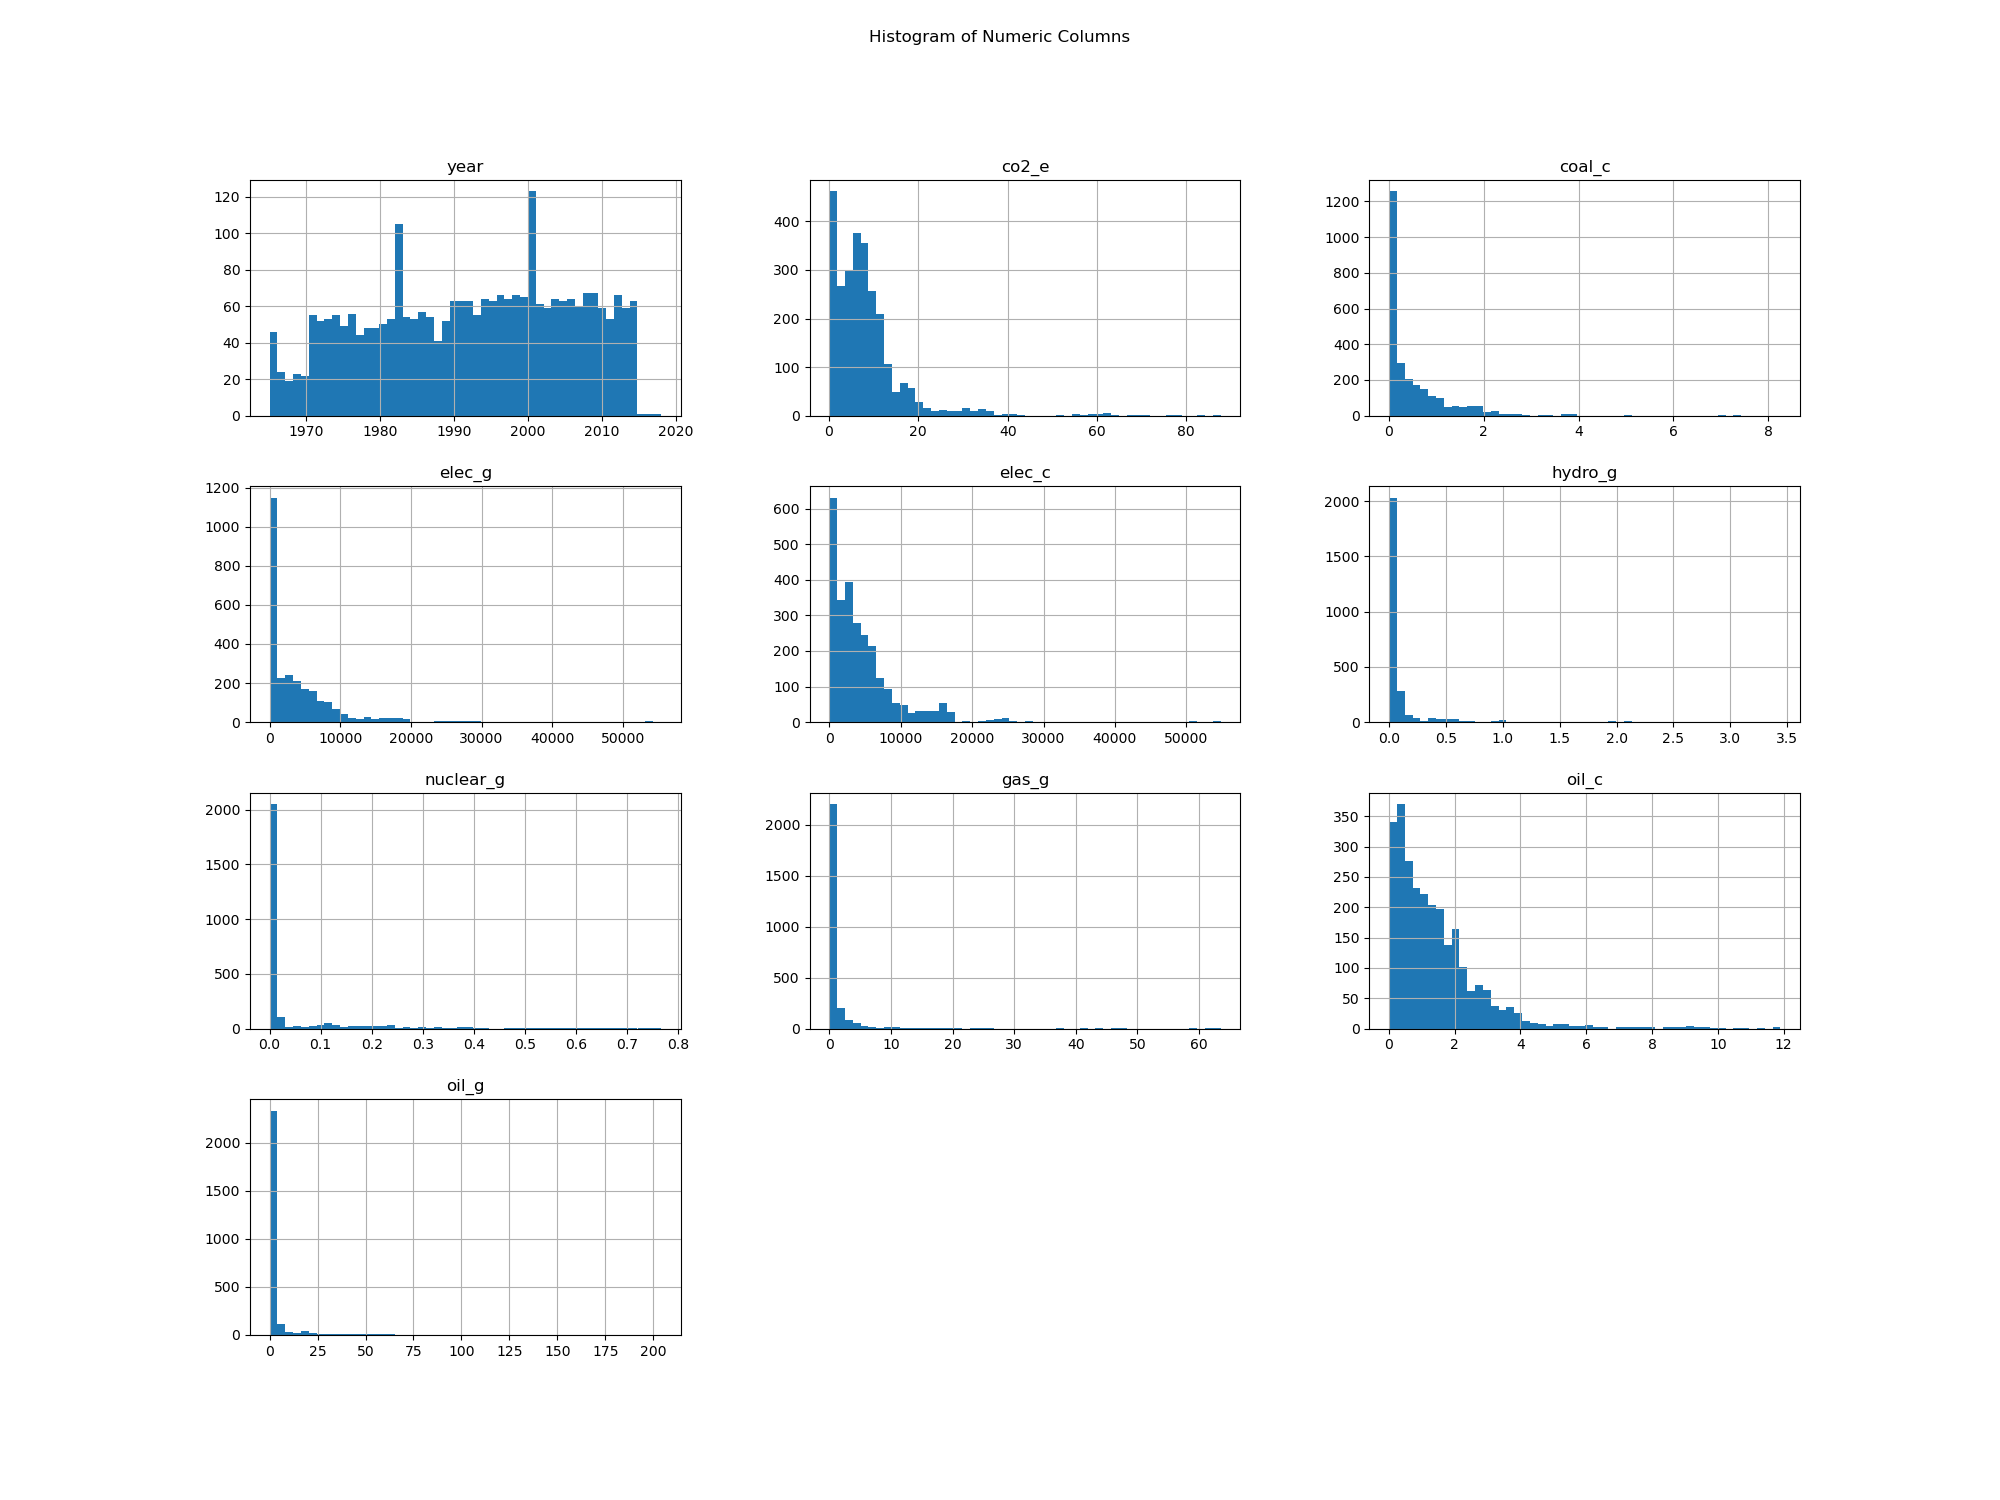
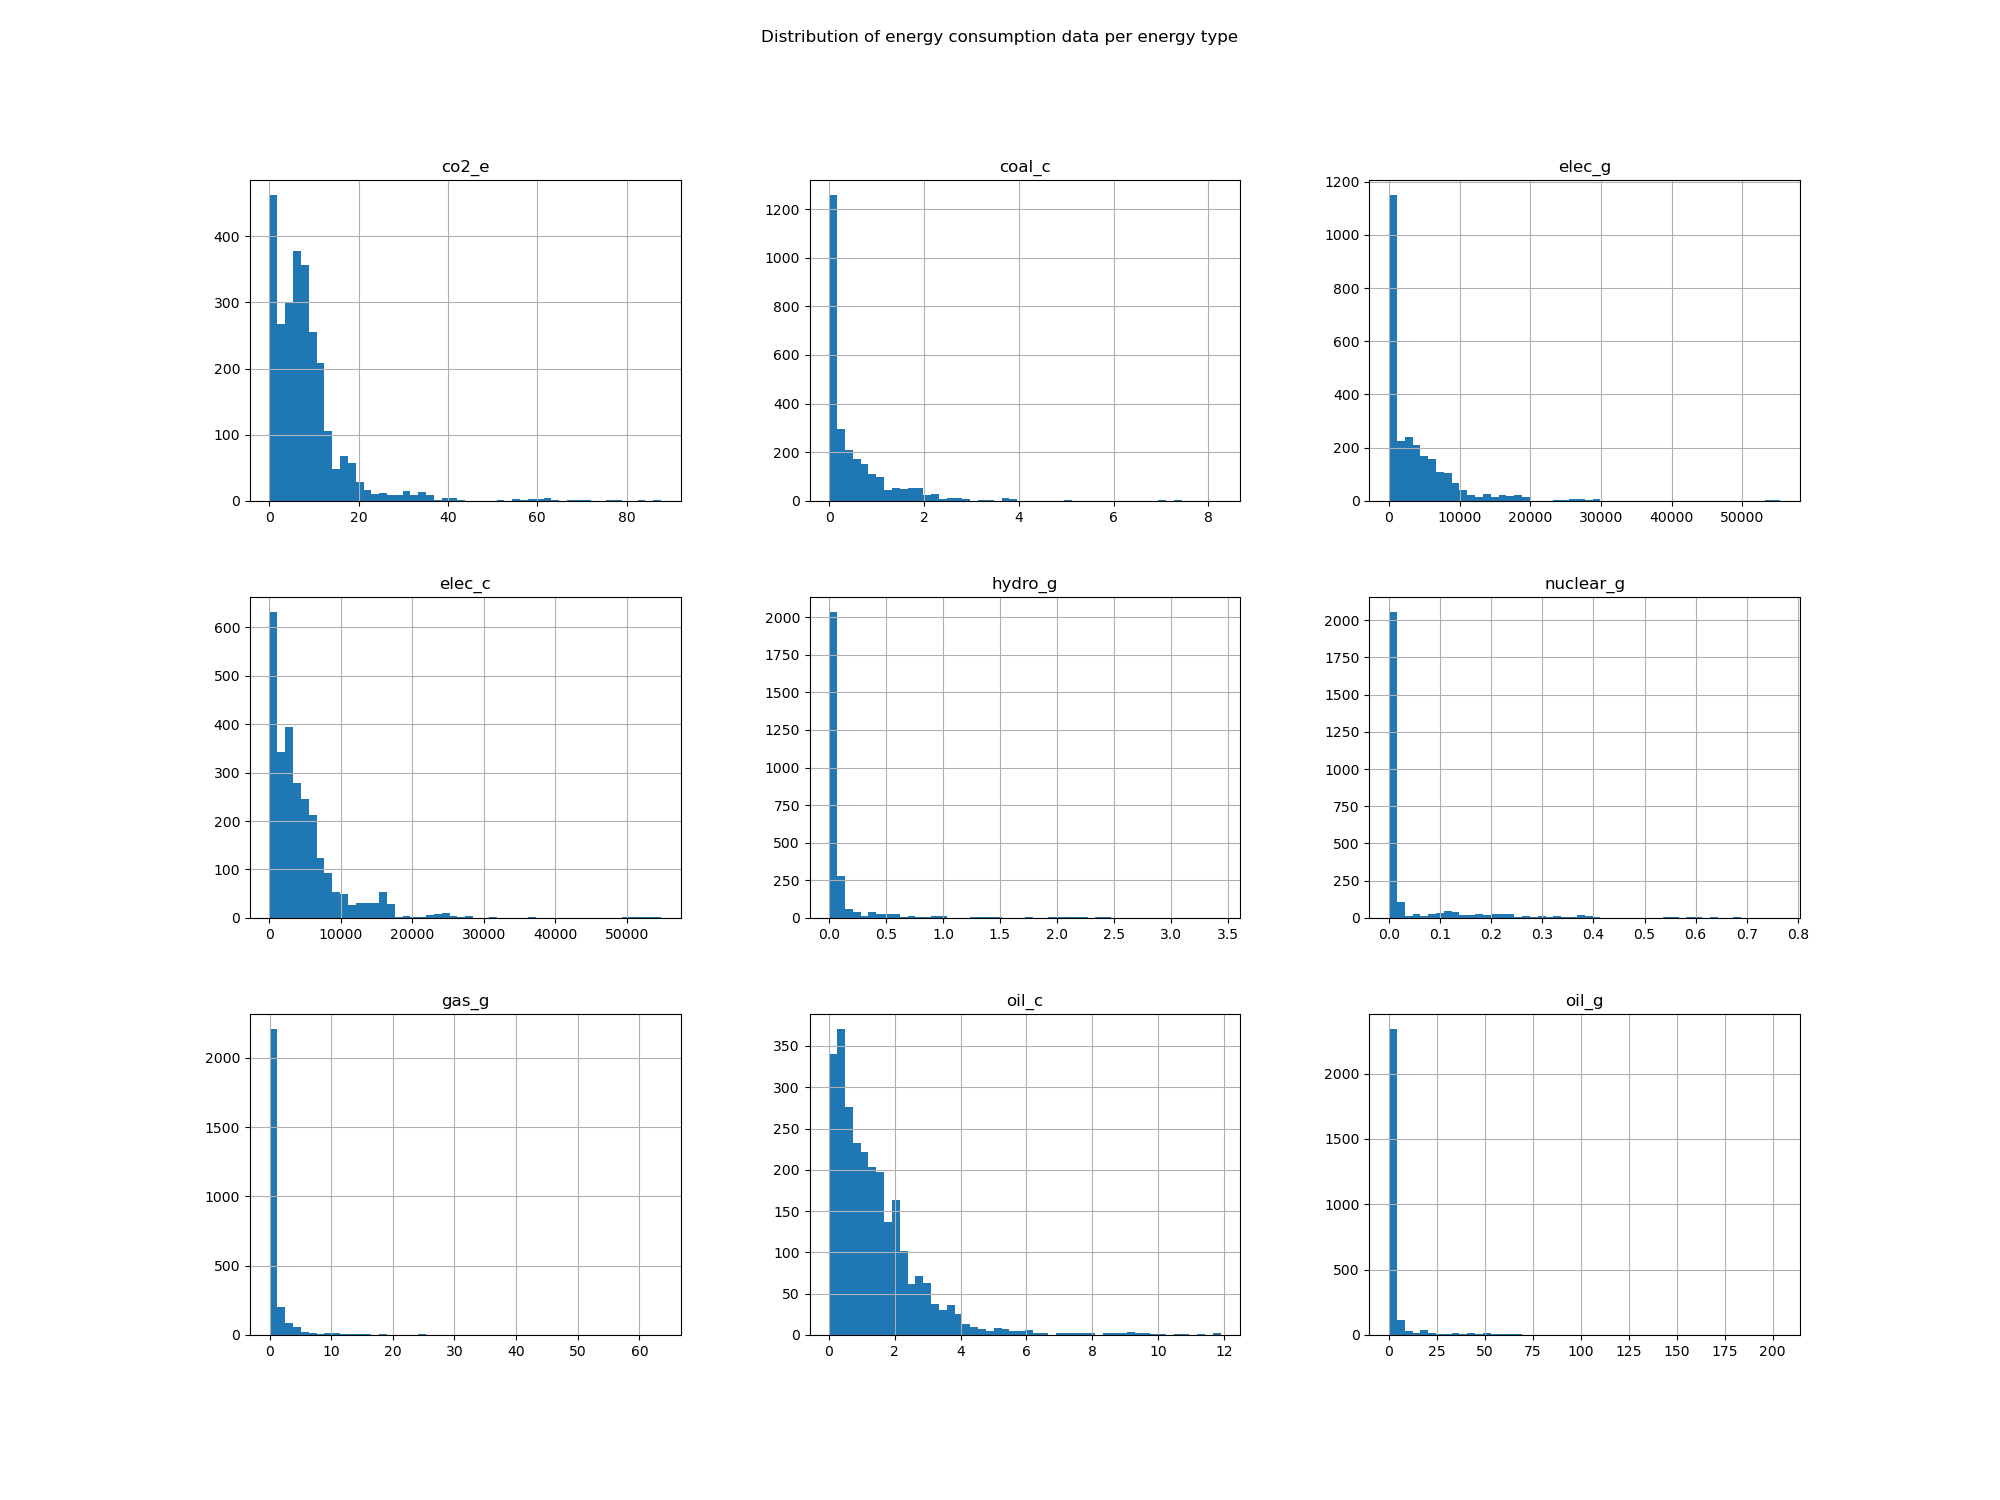
modified eda script and further modified the first eda plot

diff --git a/scripts/eda.py b/scripts/eda.py
@@ -29,8 +29,8 @@ def main(train_df, plot_to):
     train_df = pd.read_csv(train_df, index_col=0)
 
     # Distributions for all numerical columns
-    train_df.hist(bins=50, figsize=(20, 15));  
-    plt.gcf().suptitle('Histogram of Numeric Columns') 
+    train_df.iloc[:, 2:].hist(bins=50, figsize=(20, 15));  
+    plt.gcf().suptitle('Distribution of energy consumption data per energy type') 
     
     plt.gcf().savefig(os.path.join(plot_to, "histogram_by_numeric_cols.png"))
 
@@ -40,8 +40,7 @@ def main(train_df, plot_to):
         y=alt.Y('count()', title='Count')
     ).properties(
         width=100,
-        height=100,
-        title="Available energy consumption data per country"
+        height=100
     ).facet(facet=alt.Facet('country:N', 
                             title="Available energy consumption data per country"), columns=6)
 
